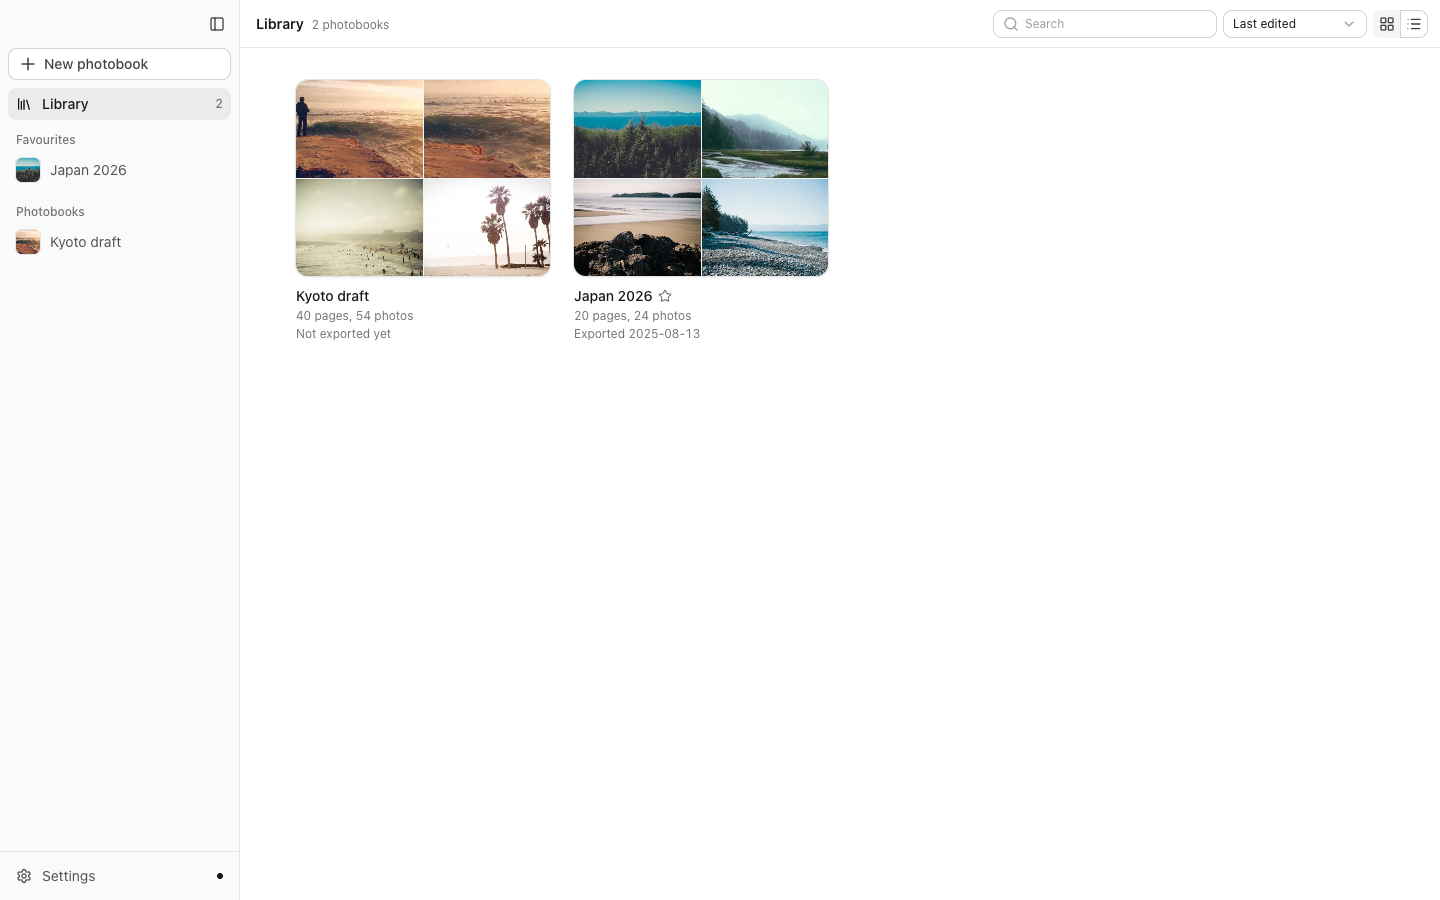
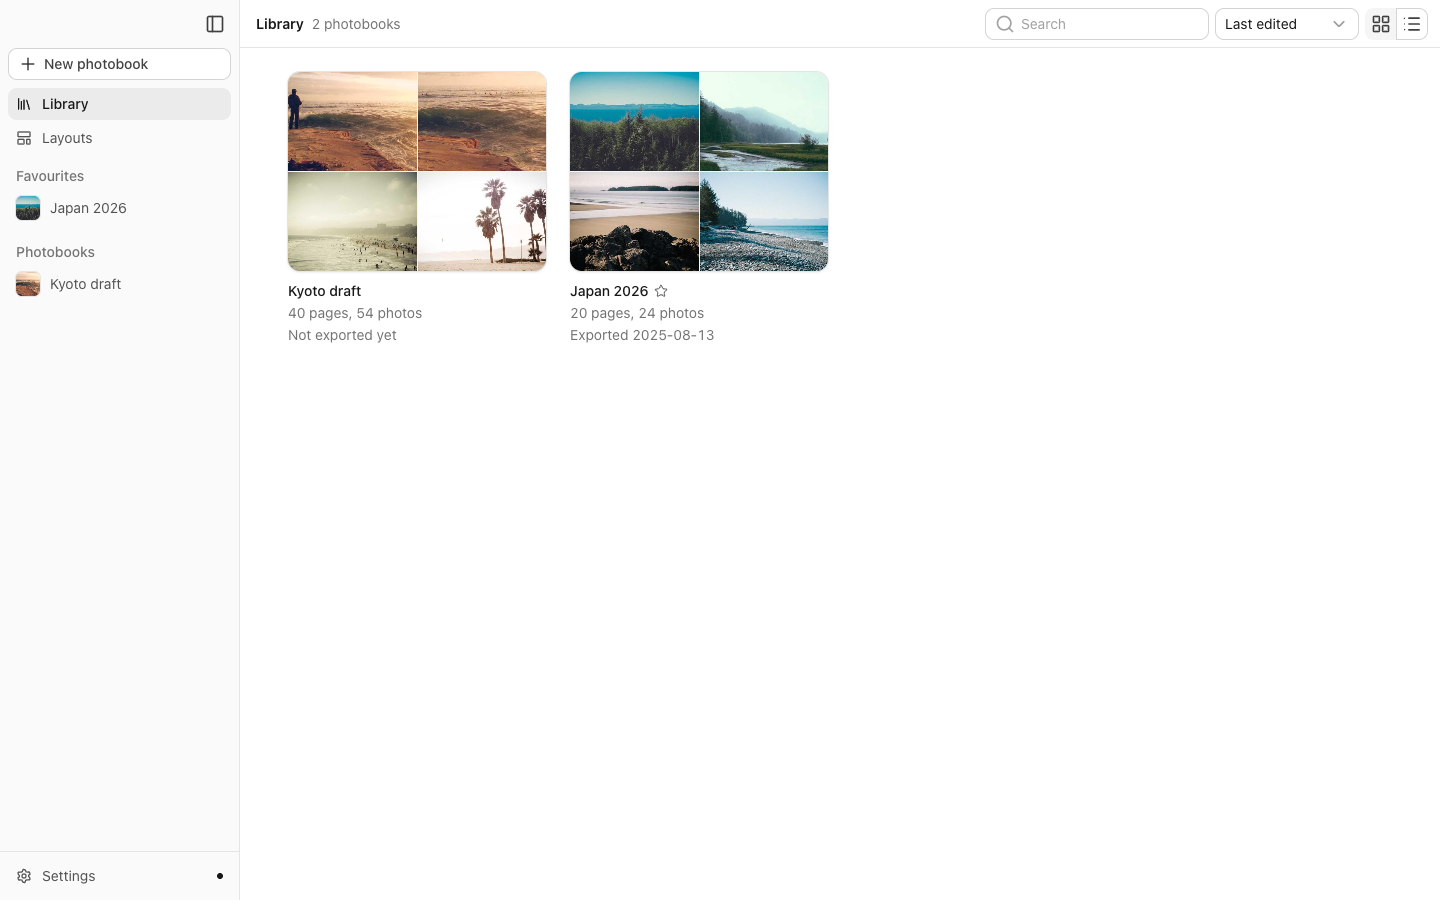
docs(readme): show each v0.4.0 feature with a screenshot
Rebuild the README around screenshots: story chapters and drag to swap,
the photo chooser, print size, custom layouts and Send to Pixajoy. Say
in Privacy that photos leave the Mac only on Send. Retake the old
screenshots from the current UI, add them to the manual's sections, and
note in development.md how the mock answers Pixajoy.

diff --git a/README.md b/README.md
@@ -15,36 +15,77 @@
 </p>
 
 <p align="center">
-  <img src="docs/screenshots/editor.png" alt="The book editor showing the cover and page 1, with the chat open" width="900" />
+  <img src="docs/screenshots/editor.png" alt="The book editor with the front and back cover filled, the first chapter's title, and the chat offering a change" width="900" />
 </p>
 
 Pick your photo folders. PhotobookGen ranks every photo with Apple Vision, drops look-alikes
-and utility shots, and lays out a varied book spread by spread. You fine-tune it, then export
-one cropped file per photo plus a `manifest.json`, ready to upload to your printer.
+and utility shots, and lays out a book that reads like a story. Fine-tune it, then send it
+straight to Pixajoy or export it for any printer.
 
-## Features
+## Point it at a folder
 
-- **On-device analysis.** Faces, aesthetics, sharpness, saliency and scene tags from Apple
-  Vision. RAW, HEIC and JPEG.
-- **Smart culling.** Near-duplicates collapse to the best frame, and the book favours variety
-  over density.
-- **Full control.** Include or exclude any photo. Regenerate, lock or shuffle spreads, swap
-  photos, crop, and move or resize boxes. Edits that would cut a face or print blurry are
-  refused with the reason.
-- **Front and back cover.** Generating a book picks both, cropped to the panel including the
-  wrap that folds under the board, with a plain spine colour taken from the front photo.
-  Swap, re-crop or clear either side.
-- **Chapters by place.** Optional, off by default. A move of more than 25 km ends a chapter,
-  and each one is titled with its town.
-- **Any printer.** Page size, bleed, margins and DPI are set per book. Pixajoy's 11 × 8.5" is
-  the default.
-- **Pre-flight export.** Anything that would print badly blocks the export.
-- **Optional AI chat.** Ask for layout changes in plain words. Every edit waits for your
-  approval. Uses your own DeepSeek key.
+<img src="docs/screenshots/choose-photos.png" alt="The photo selection screen, grouped by event, with the book settings on the right" width="900" />
 
-| Choose the photos | Set the print size |
-|---|---|
-| ![Contact sheet](docs/screenshots/choose-photos.png) | ![Print size panel](docs/screenshots/print-size.png) |
+Every photo is analysed on your Mac for faces, sharpness, aesthetics and scene. Near-duplicates
+collapse to the best frame, events get a tier, and the bar on the right shows where every
+photo went. Add more folders, pick a length, and generate.
+
+## A book that reads like a story
+
+<img src="docs/screenshots/drag-swap.png" alt="A chapter titled Reykjavík, with a photo being dragged onto another and a Swap label under it" width="900" />
+
+Chapters open on a wide shot and close on a calm one, with a title you can edit printed on
+the opening. Drag a photo onto another to swap them, onto another spread to move it, or onto
+the cover. Edits that would cut a face or print blurry are refused with the reason.
+
+<table>
+  <tr>
+    <td width="50%"><img src="docs/screenshots/photo-picker.png" alt="The photo chooser with an as-it-would-print preview beside the whole photo" /></td>
+    <td width="50%"><img src="docs/screenshots/print-size.png" alt="The print size dialog with a drawing of bleed, safe margin and fold" /></td>
+  </tr>
+  <tr>
+    <td><b>See it before you swap it.</b> Every photo previews cropped to the slot, next to the whole frame.</td>
+    <td><b>Any printer.</b> Page size, bleed, margins and DPI are set per book. Pixajoy's 11 × 8.5" is the default.</td>
+  </tr>
+</table>
+
+## Make your own layouts
+
+<table>
+  <tr>
+    <td width="50%"><img src="docs/screenshots/layouts.png" alt="The Layouts screen listing custom layouts and the built-in ones" /></td>
+    <td width="50%"><img src="docs/screenshots/layout-editor.png" alt="The layout editor with photo boxes, snapping guides and the print check panel" /></td>
+  </tr>
+  <tr>
+    <td>Every book can use your layouts. Switch one into auto layout and the book picks it by itself.</td>
+    <td>Draw boxes that snap to the trim, fold and gutter. The panel flags anything that won't print.</td>
+  </tr>
+</table>
+
+## Send it to Pixajoy
+
+<img src="docs/screenshots/send-to-pixajoy.png" alt="The Send to Pixajoy dialog after a send, with Open My Projects" width="900" />
+
+One click creates a Pixajoy project with every page, crop, cover and chapter title in place,
+ready to review and order. Each photo uploads once. A later send reuses it. Nothing is ever
+ordered for you.
+
+Printing somewhere else? **Export** runs a pre-flight check, then writes one cropped file per
+photo plus a `manifest.json`.
+
+## Also in the box
+
+- **Your whole shelf.** Every book in one library, with favourites, search and drafts.
+- **Front and back cover.** Picked and cropped for you, wrap included, with a spine colour
+  taken from the front photo.
+- **Chapters by place.** Optional. A move of more than 25 km ends a chapter, titled with its town.
+- **Optional AI chat.** Ask for a change in plain words. Every edit waits for your approval.
+  Uses your own DeepSeek key.
+- **Sharper previews** when you want them, set under **Settings → General → Graphics**.
+
+<p align="center">
+  <img src="docs/screenshots/library.png" alt="The library with two photobooks" width="900" />
+</p>
 
 ## Install
 
@@ -62,9 +103,13 @@ It updates itself after that.
 
 ## Privacy
 
-**Your photos never leave your Mac.** The chat, if you turn it on, sends only a text
-description of the book (layouts, page numbers, photo tags) to the provider you add a key
-for. Keys live in the macOS keychain. Your originals are never modified.
+**Analysis never leaves your Mac.** No photo goes anywhere until you press **Send** in
+**Send to Pixajoy**. Then only the photos the book shows go, whole, to your own Pixajoy
+account, and each goes once. Your Pixajoy sign-in lives in the macOS keychain. Your originals
+are never modified.
+
+The chat, if you turn it on, sends only a text description of the book (layouts, page
+numbers, photo tags) to the provider you add a key for. Keys live in the macOS keychain.
 
 Chapters by place, if you turn it on, asks Apple for a town name. It sends one point per
 chapter, rounded to about a kilometre, and never a photo. With the switch off nothing is
@@ -72,11 +117,12 @@ sent. Town names stay on your Mac and are never included in what the chat sees.
 
 ## Status
 
-Usable end to end, but not yet proven against a printed book. The cover and location
-clustering are built. Same-person grouping is blocked: Apple's on-device face data does not
-separate people reliably (0.705 AUC over 555 labelled faces), and the usual alternative
-model is licensed for research only. See
-[`docs/PROJECT-STATUS.md`](docs/PROJECT-STATUS.md) for the full record.
+Usable end to end, but not yet proven against a printed book. Sending to Pixajoy has been
+tested against a live account. A second send makes a new project rather than updating
+the first. Same-person grouping is blocked: Apple's on-device face data does not separate
+people reliably (0.705 AUC over 555 labelled faces), and the usual alternative model is
+licensed for research only. See [`docs/PROJECT-STATUS.md`](docs/PROJECT-STATUS.md) for the
+full record.
 
 ## Docs
 

diff --git a/docs/manual.md b/docs/manual.md
@@ -77,6 +77,8 @@ no longer use them.
 
 ## 1. The library
 
+![The library with two books as covers](screenshots/library.png)
+
 The screen the app opens on: every book you have made, as covers built from its own photos.
 The two buttons at the top right switch between covers and a list, which also shows each
 book's source folders and last export. Search matches a book's name or any of its folder
@@ -106,6 +108,8 @@ there is a folder. A blank name becomes the first folder's name, which the field
 placeholder.
 
 ## 2. Choosing the photos
+
+![The draft screen: photos grouped by event, with the Book tab on the right](screenshots/choose-photos.png)
 
 Starting a book opens it as a **draft**. Every supported image in them and in their subfolders is analysed
 on this Mac (nothing leaves the machine). Several folders are one set: every photo is ranked
@@ -293,6 +297,8 @@ update of the old one.
 
 ## 3. Editing the book
 
+![The book editor with both cover panels filled, the first chapter title, and the chat](screenshots/editor.png)
+
 The book, spread by spread, as it will print. **Everything on this screen is written to disk
 as you do it** (the cloud with a check, beside Undo and Redo, says it has saved; it reads **Saving…** while a change is being written), so there is nothing to
 save and you can leave whenever you like through the sidebar.
@@ -383,6 +389,8 @@ back cover, the way the printed book opens.
   other change until unlocked. Pressing or dragging a photo on a locked opening says so in
   a notice at the bottom right, with an **Unlock** button.
 
+![A photo dragged onto another, with the Swap label under it](screenshots/drag-swap.png)
+
 To **swap two photos**, drag one onto the other, anywhere in the book. While you drag, the
 photo travels with the pointer, the photo under it gets a ring, and the slot you started
 from shows the photo it would get, so you can see the swap before you let go. A label under
@@ -429,6 +437,8 @@ photos no page uses, each shown cropped the way that slot would print it; **In t
 with page N** and exchanges the two. A photo that would cut a face, put one in the fold or
 the trim margin, or print too small is dimmed with the reason and cannot be picked, and so
 are photos on a locked spread.
+
+![The photo chooser, with As it would print and Whole photo](screenshots/photo-picker.png)
 
 The panel on the right of the dialog shows a photo before you use it. At the top is the
 photo the slot holds now (**Now on page N**, or **Now on the front cover**). Click any photo
@@ -527,6 +537,8 @@ the lowest print resolution is refused with the reason, and the cover stays as i
 colour is shown beside it as a hex value (for example `#8a5a2b`) and fills the spine in the
 drawing. It is one plain colour. The app offers no suggested swatches.
 
+![The Print size panel with its drawing of bleed, safe margin and fold](screenshots/print-size.png)
+
 **Print size.** Click the size at the left of the bottom bar to open the **Print size** panel
 beside the book. It holds what a printer publishes: the **Book size** (width and height of
 the finished page after trimming), the **Bleed** on the three outer edges, the **Safe margin**
@@ -585,6 +597,8 @@ Upload the `cover-front-` and `cover-back-` files there and place each on its si
 the spine colour to the `spine_hex` value from the manifest. Pixajoy publishes no formula for
 the spine's width, so the app does not produce a spine image or a single wrap-around file;
 the spine is Pixajoy's to size.
+
+![The Send to Pixajoy dialog after a send](screenshots/send-to-pixajoy.png)
 
 **Send to Pixajoy**, beside **Export** in the editor's top bar, creates a
 new project in your Pixajoy account from the book. It never orders anything and never opens a
@@ -652,6 +666,8 @@ editor, add a text box, type the title, and place it where the editor shows the 
 
 ## 4. Layouts
 
+![The Layouts screen](screenshots/layouts.png)
+
 **Layouts** in the sidebar lists your own layouts and the built-in ones. Your layouts belong
 to the app, not to one book: every book offers them.
 
@@ -674,6 +690,8 @@ page** (the last page, or half a spread) or **Right page** (page 1, or half a sp
 book's **New layout…** opens the same editor; see [3. Editing the book](#3-editing-the-book).
 
 ### The layout editor
+
+![The layout editor with snapping guides and the check panel](screenshots/layout-editor.png)
 
 The editor shows the page or spread at the standard print size, with the trim, the gutter
 and the fold. **Add box** adds a photo box; drag a box to move it and its corner handles to

diff --git a/docs/development.md b/docs/development.md
@@ -64,7 +64,13 @@ driven by a browser automation tool, without a Tauri process. Every command the 
 reach is answered, from the wire fixtures where one exists and from
 `dev/tauri-mock/photos.ts` for a whole analysed folder, so all three screens and the flows
 between them can be driven end to end. Set `window.pbgCancelPicker = true` to make the next
-folder pick resolve to nothing. Nothing in the production build sees this alias.
+folder pick resolve to nothing. **Send to Pixajoy** is answered too: the account starts
+signed out, **Sign in** signs in as `you@example.com`, and a send walks through every stage
+with a short delay each, uploading only photos the session has not sent before. Nothing
+reaches Pixajoy. Nothing in the production build sees this alias.
+
+The screenshots in `docs/screenshots/` are taken from this mock, in light mode at 1280 x 800
+(the library at 1440 x 900), with the Nuxt devtools badge hidden.
 
 `bun run ui:dev` runs the plain Nuxt dev server without the mock.
 
